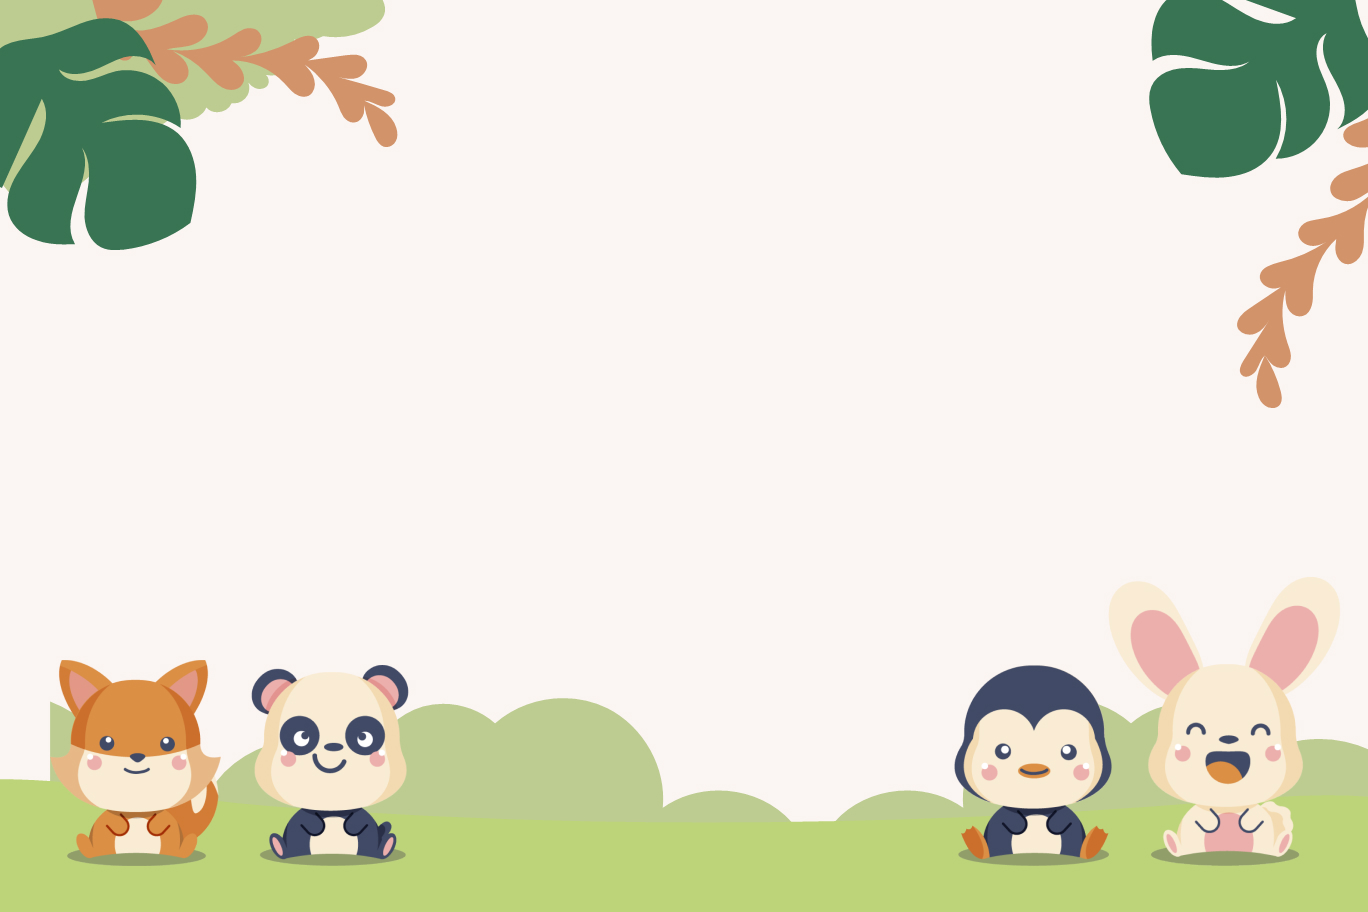
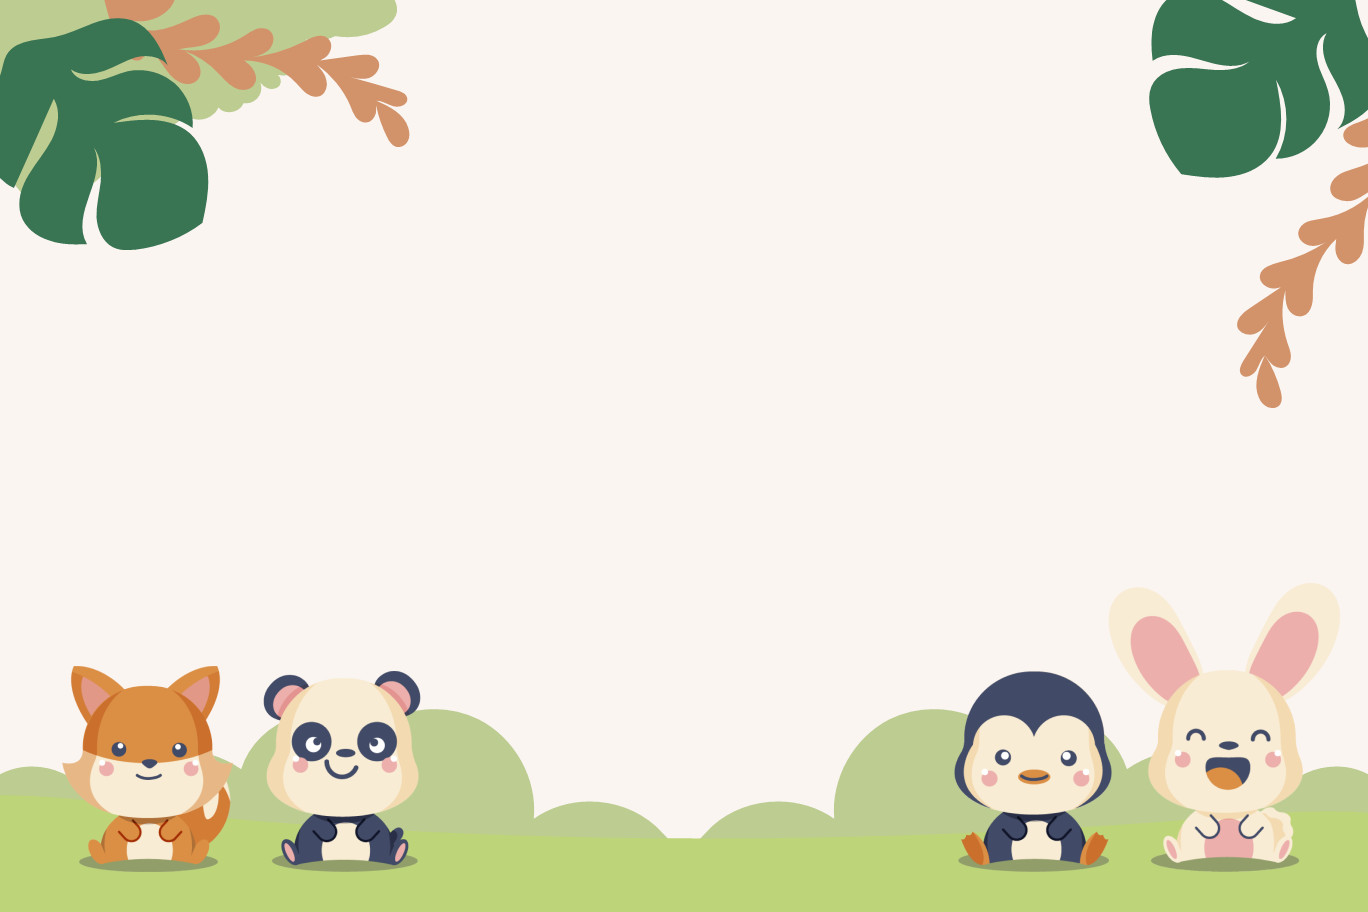
[S09P31B108-393] fix : 전체적인 css 수정

diff --git a/frontend/src/pages/children/main/index.tsx b/frontend/src/pages/children/main/index.tsx
@@ -12,17 +12,14 @@ import letterImage from "@/assets/img/letter/letterImage.png";
 import { useState } from "react";
 import { useNavigate } from "react-router-dom";
 
-const Background = styled.div`
-  position: fixed;
-  top: 0;
-  left: 0;
+import movables from "@/assets/img/movables.png";
+
+const Movables = styled.img`
   width: 100%;
-  height: 100%;
-  background-image: url(${background});
-  background-size: cover;
-  display: flex;
-  justify-content: center;
-  align-items: center;
+  position: absolute;
+  z-index: 2;
+  bottom: 0;
+  left: 0;
 `;
 
 const ContentContainer = styled.div`
@@ -394,7 +391,7 @@ const ChildrenMainPage = () => {
   };
 
   return (
-    <Background>
+    <>
       <ContentContainer>
         {(isLetter || isEnvelope || readLetter) && (
           <BlackGround onClick={CloseLetter} />
@@ -430,12 +427,13 @@ const ChildrenMainPage = () => {
           <Books src={books} onClick={goFairytale} />
           <Camera src={camera} />
         </CastleContainer>
-        <Character src={character} />
         <Profile>
           <ProfileCircle />
         </Profile>
       </ContentContainer>
-    </Background>
+      <Character src={character} />
+      <Movables src={movables} />
+    </>
   );
 };
 
